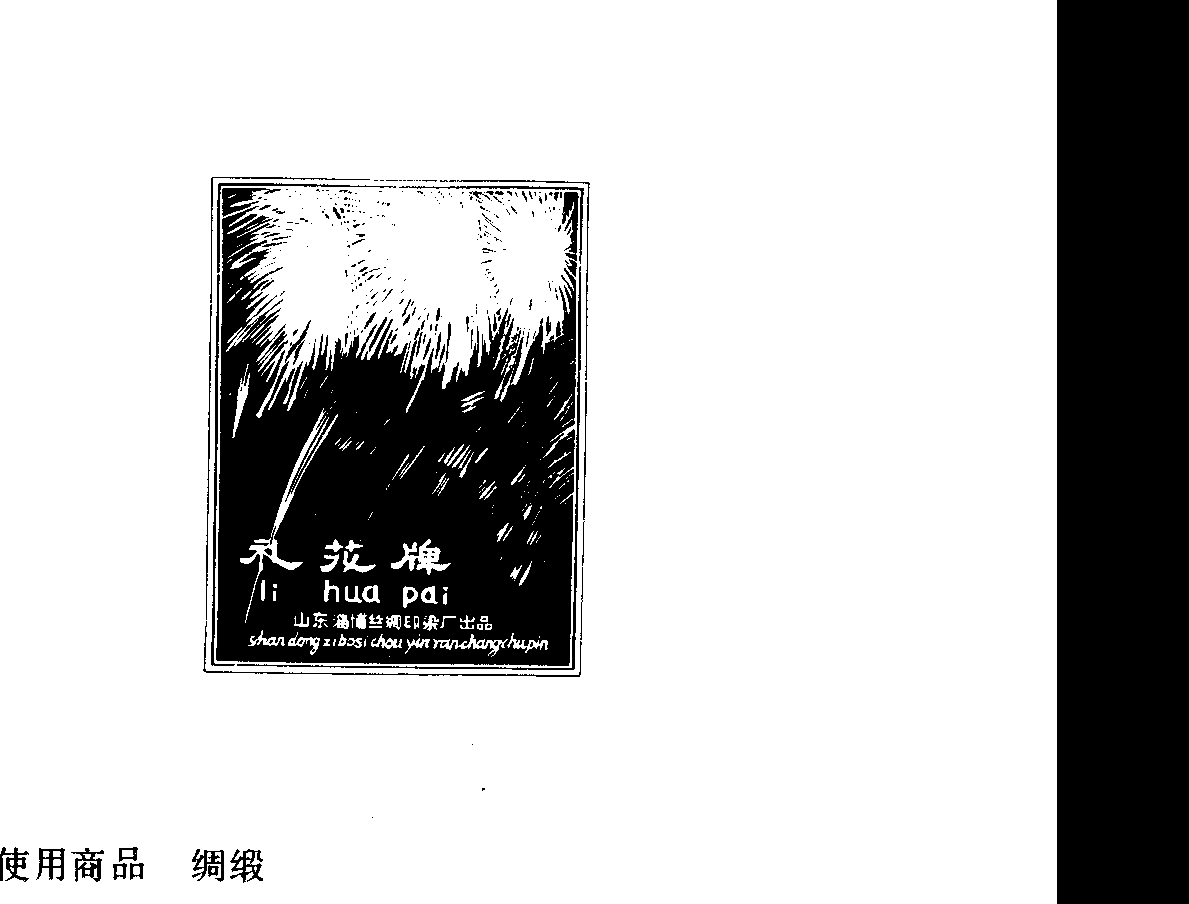
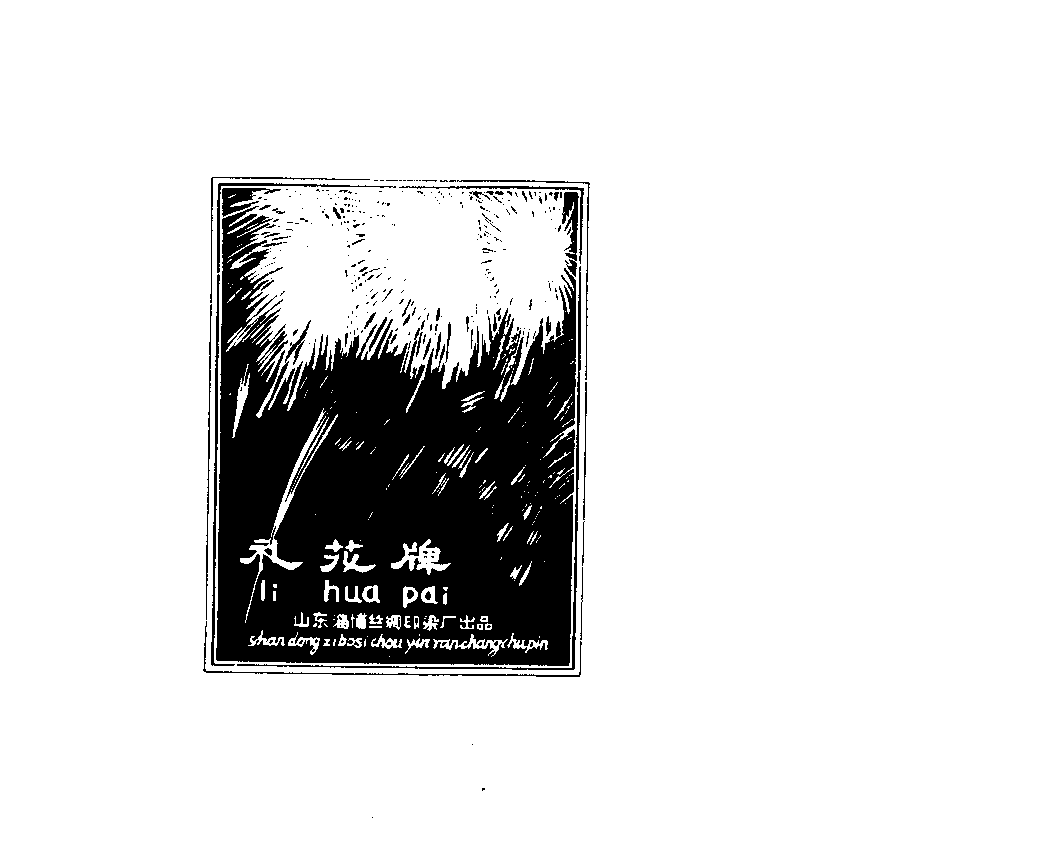
5-4
整理

diff --git a/main/mian_cut_twice.py b/main/mian_cut_twice.py
@@ -25,24 +25,35 @@ def cut_twice(image_path):
     mymovefile(image_path,'../Result/TwiceCut/')
 def main_cut_twice(max_pic_num,_path):
     images_path = getallfiles(_path,max_pic_num)
-    for image_path in images_path:
-        _tmp = image_path.split('/')
-        _name = _tmp[-1].replace(".png","")
-        _json = get_json(image_path)
-        _type_num = get_cate(_json)
-        print _type_num
-        if _type_num == 0:
-            print _name + " is no words"
-        elif _type_num == 3:
-            print _name +" need cut twice"
-            cut_twice(image_path)
-        else:
-            print _name +" is normal"
-            _key = get_key(_json,_type_num)
-            pretty_list(_key)
-            area = get_brand_area(_key)
-            img = open_file2(image_path)
-            area[2]= img.size[1]
-            cut_area(area,img,_name)
-main_cut_twice(50,"../Result/CateImage/normal/")
+    for image_path in images_path:      
+        main_cut_twice_each(image_path)       
+def main_cut_twice_each(image_path):
+    _tmp = image_path.split('/')
+    _name = _tmp[-1].replace(".png","")
+    _json = get_json(image_path)
+    _type_num = get_cate(_json)
+#     print _type_num
+    if _type_num == 0:
+        print _name + " is no words"
+    elif _type_num == 3:
+        print _name +" need cut twice"
+        cut_twice(image_path)
+    elif _type_num == 4:
+        print _name +" is not complete"
+    else:
+        print _name +" is normal"
+        _key = get_key(_json,_type_num)
+#         f = open("../test_package/test.json","w+")
+#         f.write(str(_key))
+#         f.close()
+        pretty_list(_key)
+        area = get_brand_area(_key)
+        img = open_file2(image_path)
+        area[2]= img.size[0]-20
+        cut_area(area,img,_name)
+# main_cut_twice(50,"../Result/CateImage/normal/")
+if __name__ == '__main__':
+#     image_path = 'E:/eclipse_python/BrandAnalyse/Result/CateImage/normal/10_100_1.png'
+#     main_cut_twice_each(image_path)
+    main_cut_twice(20,"../Result/CateImage/normal/")
     

diff --git a/tools/OCR_Location.py b/tools/OCR_Location.py
@@ -6,6 +6,7 @@ Created on 2018年3月22日
 '''
 import json
 import re
+from tools.mprint import pretty_dict, pretty_list, pretty_un
 _ZhuCeHao = u'注册号'
 _ShangBiao = u'商标'
 _ShiYongShangPin =u'使用商品'
@@ -19,12 +20,18 @@ def get_cate(_json):
     global _ZhuCeHao,_ShangBiao, _ShiYongShangPin,_QiYeMingCheng,_QiYeDiZhi,_ZhuCeRiQi,_ZhuanYongQiXian,_type2,_type1
     _list_words =[ item['words'] for item in _json['words_result']]
     _list_words_str = ''.join(_list_words)#     print _list_words
-    tag_zch = re.findall(_ZhuCeHao, _list_words_str)
+    tag_zch = re.findall(_ZhuCeHao, _list_words_str)#标志 记录是否有注册号  如果有 证明是正常的切分
 #     print len(tag_zch)
+#     print _list_words_str
+    y_m_d = re.compile(u"年|月|日")
+    tag_y_m_d = re.findall(y_m_d, _list_words_str)
+    pretty_un( tag_y_m_d)
+    if len(tag_y_m_d) < 3:
+        return 4
     if len(tag_zch) >= 2:
-        return 3
+        return 3# 多个  需要继续切分
     elif len(tag_zch)==0:
-        return 0
+        return 0# 错误切分
     elif _ZhuanYongQiXian in _list_words_str:
         return 2
     elif _ShangBiao in _list_words_str:
@@ -74,12 +81,13 @@ def get_brand_area(_result):
                 _area[1] = i['location']['top']+i['location']['height']
             elif i['item'] == _ShiYongShangPin:
                 _area[2] = 0
-                _area[3] = i['location']['top']
+                _area[3] = i['location']['top']-i['location']['height']-20
         if _type_num == 2:
             if i['item'] == _ZhuCeHao:
                 _area[0] = i['location']['left']
                 _area[1] = i['location']['top']+i['location']['height']
             elif i['item'] == _ShiYongShangPin:
+                pretty_dict(i)
                 _area[2] = 0
-                _area[3] = i['location']['top']
+                _area[3] = i['location']['top']-i['location']['height']-20
     return _area

diff --git a/test/test.py b/test/test.py
@@ -4,10 +4,23 @@ Created on 2018年3月23日
 
 @author: Administrator
 '''
-from tools.OpenFile import getallfiles
-max_pic_num=20
-# images_path = getallfiles(u"E:/eclipse_python/BrandAnalyse/Result/CateImage/normal/500good",max_pic_num)
-images_path = getallfiles(u"K:\商标\haotm",max_pic_num)
-for image_path in images_path:
-    _tmp = image_path.split('\\')
-    print _tmp[-2]+'_'+_tmp[-1].replace(".png","")
+# from tools.OpenFile import getallfiles
+# max_pic_num=20
+# # images_path = getallfiles(u"E:/eclipse_python/BrandAnalyse/Result/CateImage/normal/500good",max_pic_num)
+# images_path = getallfiles(u"K:\商标\haotm",max_pic_num)
+# for image_path in images_path:
+#     _tmp = image_path.split('\\')
+#     print _tmp[-2]+'_'+_tmp[-1].replace(".png","")
+# from PIL import Image, ImageDraw
+# img = Image.open("../Result/500good/1_3_0.98.png")
+# draw = ImageDraw.Draw(img)
+# width,height = img.size
+# draw.line(((0,0),(width-1,height-1)),fill=0)
+# draw.line(((0,height-1),(width-1,0)),fill=0)
+# img.show()
+
+s = u"注册号140936商标.狮猫牌hime"
+import re
+r = re.compile(u"号|商")
+res = re.findall(r,s)
+print res[0],res[1]

diff --git a/test_package/test_json.py b/test_package/test_json.py
@@ -11,6 +11,7 @@ from tools.OpenFile import open_file2
 from tools.CutImage import cut_image, cut_area
 from tools.mprint import *
 from aip.ocr import AipOcr
+from tools.PaintArea import paint_area
 def get_file_content(filePath):
     with open(filePath, 'rb') as fp:
         return fp.read()
@@ -37,16 +38,16 @@ def save_file(image_path):
     f.write(_str)
     f.close()
 def main():   
-    image_path = '../Result/CateImage/normal/1_3_4.png'#1_6_6.png
+    image_path = 'E:/eclipse_python/BrandAnalyse/Result/CateImage/normal/10_102_2'#1_6_6.png
 #     save_file(image_path)
     f = open('test.json','r')            
     line = f.readline()
-    result_json = json.loads(line)        
-    key = get_key(result_json)
+    key = eval(line)
     pretty_list(key)
 #     print key
     area = get_brand_area(key)
     img = open_file2(image_path)
-    area[2]= img.size[1]
-    cut_area(area,img,'test')
+    area[2]= img.size[0]
+    img = paint_area(area,img,"test")
+    img.show()
 main()

diff --git a/tools/PaintArea.py b/tools/PaintArea.py
@@ -18,12 +18,10 @@ def paint_area(area,image,image_name):
         region = (x1,y1,x2,y2)
     print region
     drawObject = ImageDraw.Draw(image)  
-    drawObject.line((0,0) +image.size, fill=128)
-    drawObject.rectangle(region,outline = "red")
-    image.show()
+    drawObject.rectangle(region,fill=0)
     return image
-image_path = '../Result/CateImage/normal/500good/1_3_0.98.png'
-image = open_file2(image_path)
-img = paint_area((100,150,200,300),image,2)
-plt.imshow(img)
-plt.show()
+if __name__ == '__main__':   
+    image_path = '../Result/500good/1_3_0.98.png'
+    image = open_file2(image_path)
+    img = paint_area((100,150,200,300),image,2)
+    img.show()

diff --git a/tools/mprint.py b/tools/mprint.py
@@ -8,6 +8,8 @@ def prettylist(list):
     print '*'*20
     for x1,y1,x2,y2 in list:
         print x1,y1,x2,y2
+def pretty_un(list):
+    print u" ".join(list)
         
 def pretty_dict(obj, indent=' '):
     def _pretty(obj, indent):
